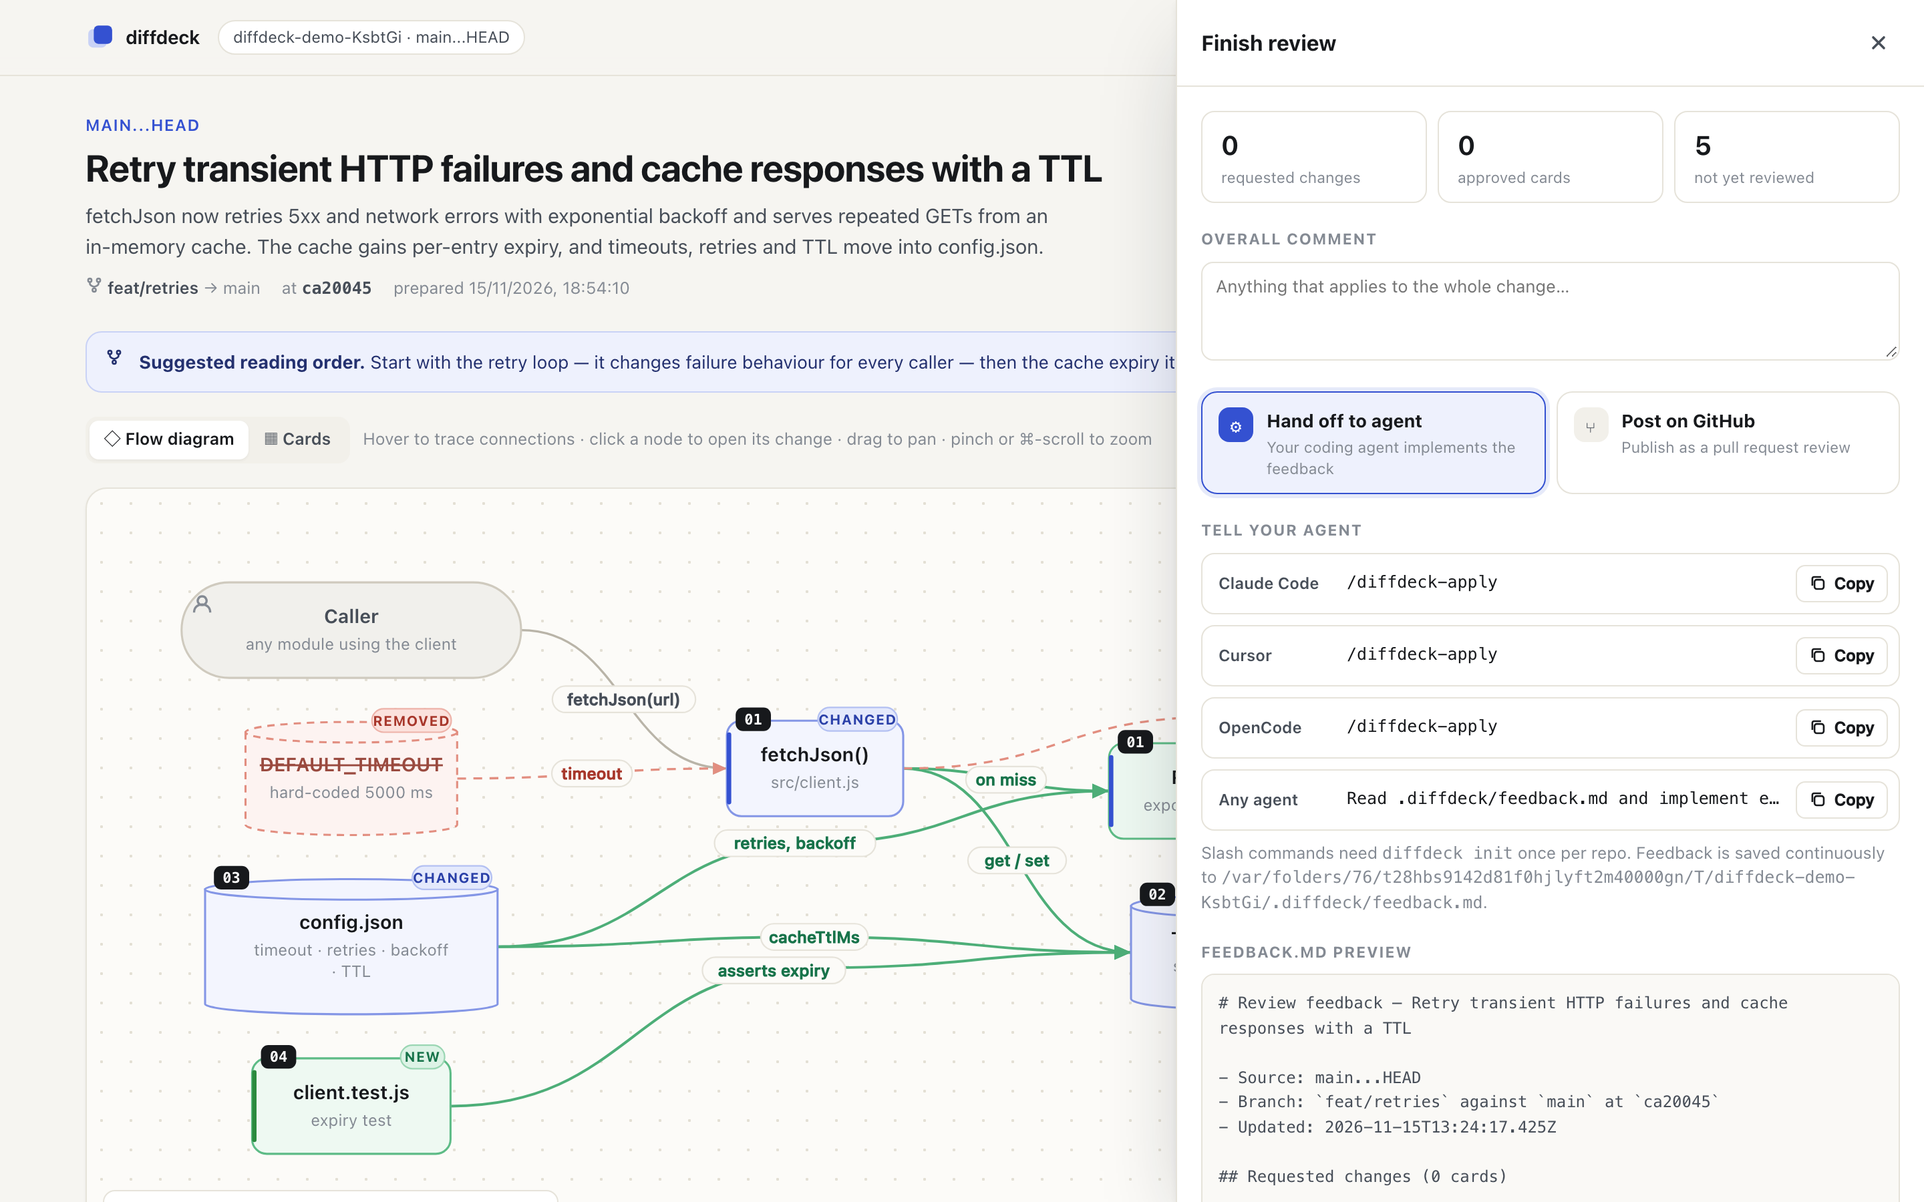
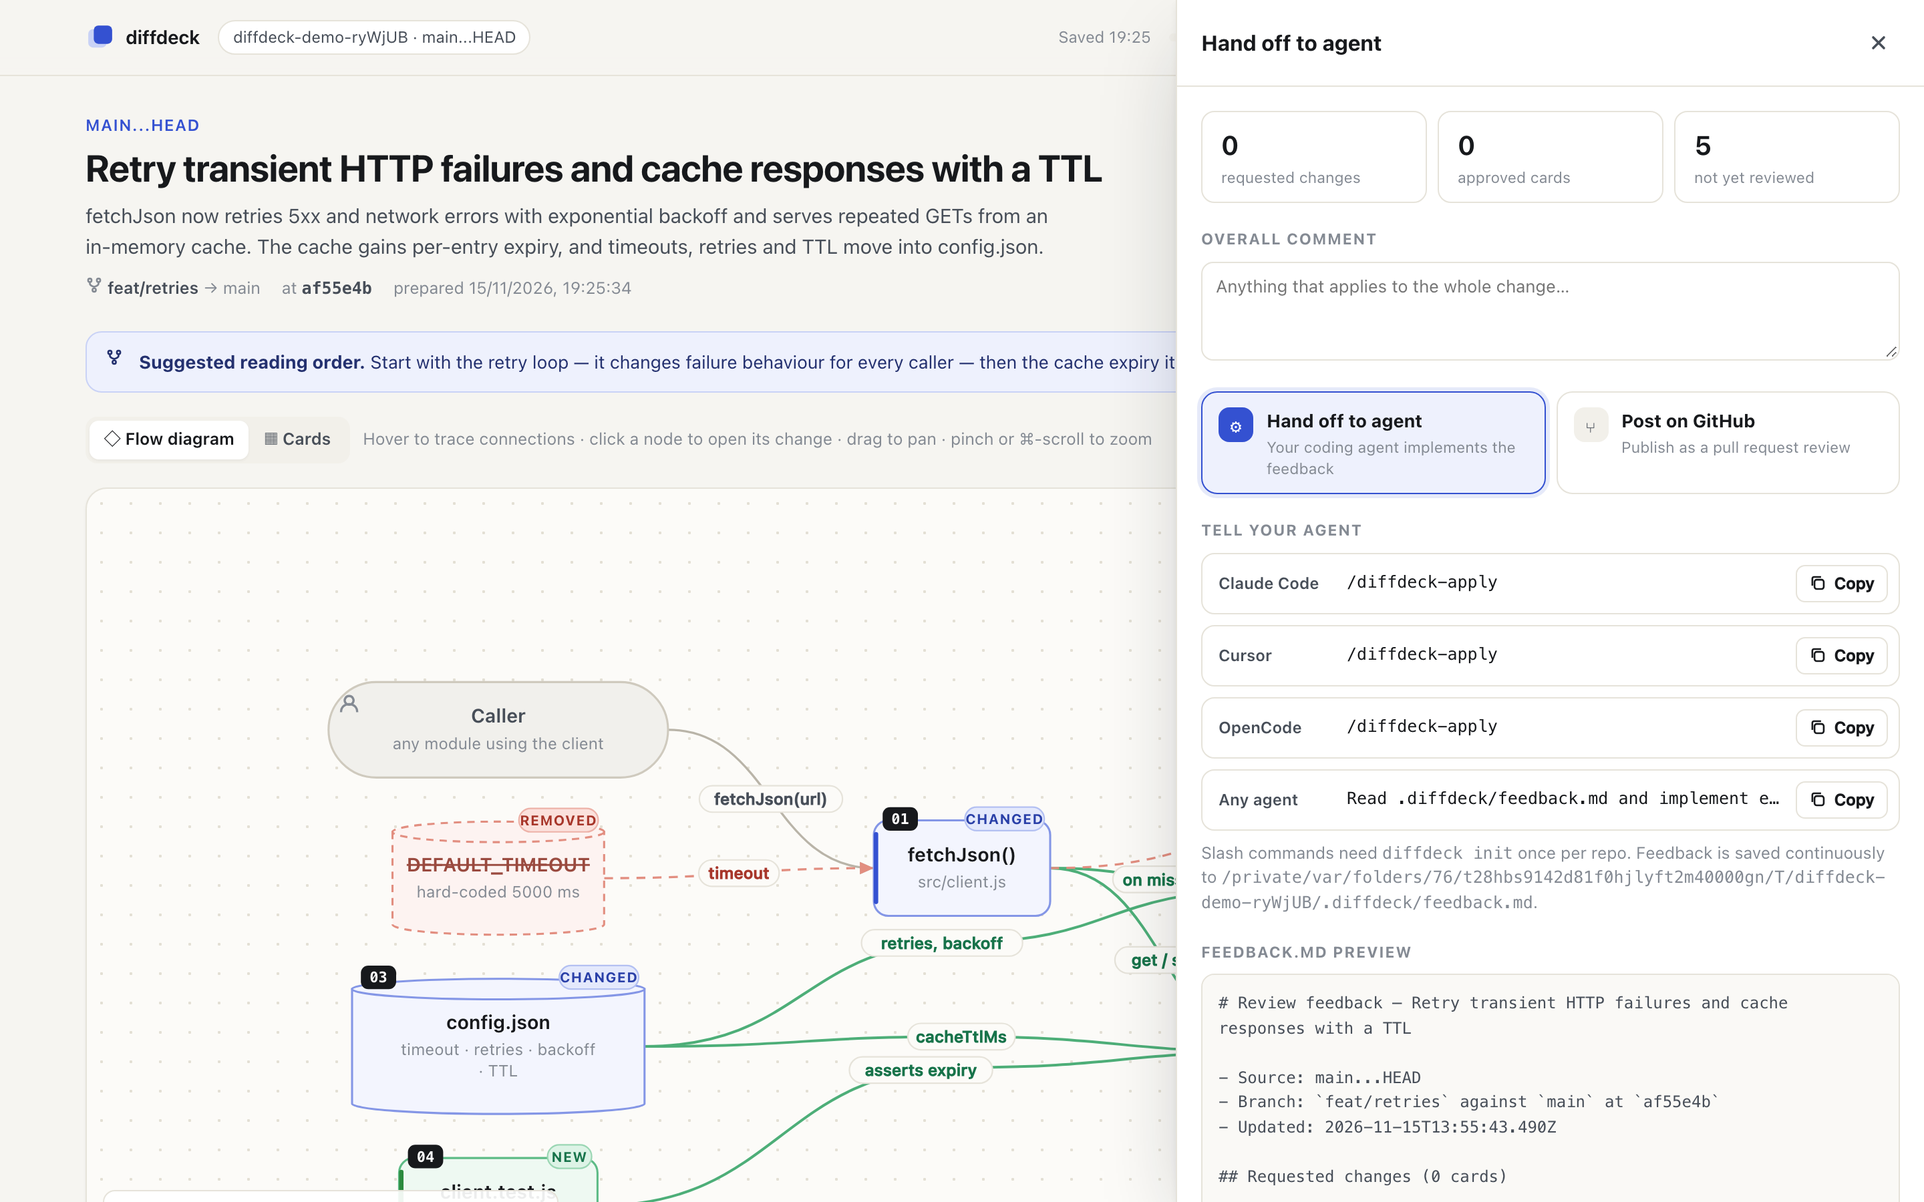
Two finish buttons, background server for agents, clearer README
- Top bar has separate "Hand off to agent" and "Post on GitHub" buttons;
  each opens its own panel
- `diffdeck serve --background` starts the review server and returns,
  reusing a server that is already running; `diffdeck stop` stops it
- The breakdown command now starts the server itself and opens the
  browser, and the agent's final message begins with the review link
- When a PR belongs to another repository, the agent uses the local clone
  of that repository
- README: step-by-step command guide at the top, including what each step
  does and prints; reference table updated; screenshots retaken

diff --git a/bin/diffdeck.js b/bin/diffdeck.js
@@ -28,7 +28,8 @@ ${c.b('Usage')}
   diffdeck init [agent]         Add /diffdeck-breakdown and /diffdeck-apply commands to this repo
                                 agent: ${AGENT_TARGETS.join(' | ')} | all (default)
   diffdeck prepare [same args]  Only collect the diff (what agents run)
-  diffdeck serve                Only open the UI for the prepared diff
+  diffdeck serve [--background] Open the UI for the prepared diff (--background: keep it running and return)
+  diffdeck stop                 Stop a background server
   diffdeck post [--event comment|request-changes|approve] [--yes]
                                 Preview your review for the PR; with --yes, post it to GitHub
   diffdeck login                Log in to GitHub (via the gh CLI)
@@ -97,8 +98,55 @@ function doPrepare(root, args) {
   return r;
 }
 
+// A server started by `diffdeck serve` records itself in .diffdeck/server.json
+// so later commands (and agents) reuse it instead of starting another one.
+function serverFile(dir) { return path.join(dir, 'server.json'); }
+
+async function runningServer(dir) {
+  let info;
+  try { info = JSON.parse(fs.readFileSync(serverFile(dir), 'utf8')); } catch { return null; }
+  try { process.kill(info.pid, 0); } catch { return null; }
+  try {
+    const res = await fetch(`${info.url}api/version`, { signal: AbortSignal.timeout(1500) });
+    return res.ok ? info : null;
+  } catch { return null; }
+}
+
+function printRunning(dir, url, background) {
+  const hasBreakdown = fs.existsSync(path.join(dir, 'breakdown.json'));
+  console.log(`${c.green('✓')} The review is open at ${c.b(c.blue(url))}`);
+  if (!hasBreakdown) console.log(`  ${c.yellow('No breakdown yet.')} In your agent run ${c.b('/diffdeck-breakdown <PR link>')}; the page updates by itself.`);
+  console.log(`  Feedback is saved to ${c.dim(path.join(dir, 'feedback.md'))}`);
+  console.log(c.dim(background ? '  The server runs in the background. Stop it with: diffdeck stop' : '  Press Ctrl+C to stop.'));
+}
+
 async function doServe(dir, args) {
   load(dir); // fail early with a helpful message if nothing is prepared
+  const existing = await runningServer(dir);
+  if (existing) {
+    console.log(c.dim('  (already running; the open page refreshes by itself)'));
+    printRunning(dir, existing.url, true);
+    if (!args['no-open']) openBrowser(existing.url);
+    return;
+  }
+
+  if (args.background) {
+    const child = spawn(process.execPath, [__filename, 'serve', '--no-open', ...(args.port ? ['--port', String(args.port)] : [])], {
+      cwd: path.dirname(dir), detached: true, stdio: 'ignore', windowsHide: true,
+    });
+    child.unref();
+    for (let i = 0; i < 50; i++) {
+      await new Promise((r) => setTimeout(r, 100));
+      const info = await runningServer(dir);
+      if (info && info.pid === child.pid) {
+        printRunning(dir, info.url, true);
+        if (!args['no-open']) openBrowser(info.url);
+        return;
+      }
+    }
+    throw new Error('The background server did not start. Run `diffdeck serve` to see the error.');
+  }
+
   let port = Number(args.port || process.env.DIFFDECK_PORT || 4777);
   let server;
   for (let attempt = 0; attempt < 20; attempt++) {
@@ -108,19 +156,27 @@ async function doServe(dir, args) {
     }
   }
   const url = `http://127.0.0.1:${port}/`;
-  const hasBreakdown = fs.existsSync(path.join(dir, 'breakdown.json'));
-  console.log(`${c.green('✓')} diffdeck is running at ${c.b(c.blue(url))}`);
-  if (!hasBreakdown) console.log(`  ${c.yellow('No breakdown yet.')} In your agent run ${c.b('/diffdeck-breakdown')} (or say "follow .diffdeck/AGENT_TASK.md"); the page updates by itself.`);
-  console.log(`  Feedback is saved to ${c.dim(path.join(dir, 'feedback.md'))}`);
-  console.log(c.dim('  Press Ctrl+C to stop.'));
+  fs.writeFileSync(serverFile(dir), JSON.stringify({ pid: process.pid, port, url, startedAt: new Date().toISOString() }, null, 2));
+  const cleanup = () => {
+    try { if (JSON.parse(fs.readFileSync(serverFile(dir), 'utf8')).pid === process.pid) fs.unlinkSync(serverFile(dir)); } catch { /* already gone */ }
+  };
+  printRunning(dir, url, false);
   if (!args['no-open']) openBrowser(url);
-  process.on('SIGINT', () => { server.close(); process.exit(0); });
+  for (const sig of ['SIGINT', 'SIGTERM', 'SIGHUP']) process.on(sig, () => { cleanup(); server.close(); process.exit(0); });
+  process.on('exit', cleanup);
+}
+
+async function doStop(dir) {
+  const info = await runningServer(dir);
+  if (!info) { try { fs.unlinkSync(serverFile(dir)); } catch { /* none */ } console.log('No diffdeck server is running for this repository.'); return; }
+  process.kill(info.pid, 'SIGTERM');
+  console.log(`${c.green('✓')} Stopped the diffdeck server at ${info.url}`);
 }
 
 async function main() {
   const argv = process.argv.slice(2);
   const first = argv[0];
-  const known = ['review', 'demo', 'init', 'agent-setup', 'prepare', 'serve', 'validate', 'feedback', 'post', 'login', 'help'];
+  const known = ['review', 'demo', 'init', 'agent-setup', 'prepare', 'serve', 'stop', 'validate', 'feedback', 'post', 'login', 'help'];
   const cmd = !first || first.startsWith('-') ? 'review' : first;
   const args = parseArgs(cmd === first ? argv.slice(1) : argv);
 
@@ -151,6 +207,9 @@ async function main() {
       return;
     case 'serve':
       await doServe(dir, args);
+      return;
+    case 'stop':
+      await doStop(dir);
       return;
     case 'validate': {
       const r = load(dir);

diff --git a/lib/agent.js b/lib/agent.js
@@ -87,7 +87,16 @@ caches and config (\`data\`), and unchanged libraries (\`external\`).
 Skip \`flow\` for docs, config-only and test-only cards.
 
 ## When done
-Tell the user: "Breakdown ready — run \`diffdeck serve\` (or refresh the open page) to review it."
+Then start the review for the user by running:
+
+    diffdeck serve --background
+
+It returns immediately, opens the browser, and prints the review's link (it reuses
+a server that is already running). Your final message must start with that link,
+for example: "The review is open at http://127.0.0.1:4777/ (running in the
+background; stop it with \`diffdeck stop\`)." Then, briefly, the most important
+findings. In the page, the reviewer can either hand the feedback back to you
+(**Hand off to agent**) or publish it on the PR (**Post on GitHub**).
 `;
 }
 
@@ -113,9 +122,9 @@ const COMMANDS = {
     body: `Pull request to review: $ARGUMENTS
 
 1. If no pull request link or number was given above, ask the user: "Which pull request should I break down? Paste its link (for example https://github.com/org/repo/pull/42)." Wait for the answer and do nothing else until you have it. If the user says there is no PR, ask which base branch to compare against and use that instead of \`--pr\` below.
-2. In the repository root, run \`diffdeck prepare --pr <link>\`. If it fails because \`gh\` is missing or not logged in, tell the user to run \`diffdeck login\` and stop.
+2. Run \`diffdeck prepare --pr <link>\` in the root of the PR's repository. If the PR belongs to a different repository than the current folder, use the user's local clone of that repository (look for it, or ask where it is); diffdeck warns when they differ. If it fails because \`gh\` is missing or not logged in, tell the user to run \`diffdeck login\` and stop.
 3. Read \`.diffdeck/AGENT_TASK.md\` and follow it exactly.
-4. When \`diffdeck validate\` passes, tell the user to run \`diffdeck\` to open the review.`,
+4. When \`diffdeck validate\` passes, run \`diffdeck serve --background\` (run it from the folder where you ran \`prepare\`). It starts the review server, opens the browser and prints the link. Begin your final message with: "The review is open at <link>", then summarise the key findings.`,
   },
   'diffdeck-apply': {
     description: 'Implement the feedback left in diffdeck',

diff --git a/ui/index.html b/ui/index.html
@@ -18,8 +18,13 @@
       <div class="topbar-spacer"></div>
       <span class="save-state" id="save-state" aria-live="polite"></span>
       <div class="progress" id="progress" title="Cards reviewed"></div>
-      <button class="btn btn-primary" id="handoff-btn" type="button">
-        Finish review <span class="count-badge" id="handoff-count" hidden></span>
+      <button class="btn" id="handoff-btn" type="button" data-act="finish" data-v="agent" title="Your coding agent implements the feedback">
+        <svg width="14" height="14" viewBox="0 0 16 16" fill="none" stroke="currentColor" stroke-width="1.6" aria-hidden="true"><rect x="2.5" y="4" width="11" height="8.5" rx="2.5"/><path d="M8 1.5V4M5.5 8h.01M10.5 8h.01"/></svg>
+        <span class="lbl">Hand off to agent</span> <span class="count-badge" id="handoff-count" hidden></span>
+      </button>
+      <button class="btn btn-primary" id="github-btn" type="button" data-act="finish" data-v="github" title="Publish your notes as a pull request review">
+        <svg width="14" height="14" viewBox="0 0 16 16" fill="currentColor" aria-hidden="true"><path d="M8 .5a7.5 7.5 0 0 0-2.37 14.62c.38.07.52-.16.52-.36v-1.3c-2.1.46-2.54-.9-2.54-.9-.34-.87-.84-1.1-.84-1.1-.68-.47.05-.46.05-.46.76.05 1.16.78 1.16.78.67 1.15 1.77.82 2.2.62.07-.48.26-.82.48-1-1.68-.19-3.44-.84-3.44-3.73 0-.82.3-1.5.78-2.03-.08-.19-.34-.96.07-2 0 0 .64-.2 2.08.78a7.2 7.2 0 0 1 3.78 0c1.44-.98 2.08-.78 2.08-.78.41 1.04.15 1.81.07 2 .49.53.78 1.2.78 2.03 0 2.9-1.77 3.54-3.45 3.73.27.23.51.69.51 1.39v2.06c0 .2.14.44.52.36A7.5 7.5 0 0 0 8 .5Z"/></svg>
+        <span class="lbl">Post on GitHub</span>
       </button>
     </div>
   </header>

diff --git a/ui/app.js b/ui/app.js
@@ -1042,7 +1042,7 @@ function renderDrawer() {
   const body = $('.drawer-body', drawer);
   const top = body ? body.scrollTop : 0;
   drawer.innerHTML = `
-    <div class="drawer-head"><h3>Finish review</h3><button class="btn btn-icon btn-ghost" data-act="close-drawer" aria-label="Close">${ICON.close}</button></div>
+    <div class="drawer-head"><h3>${GH.tab === 'github' ? 'Post on GitHub' : 'Hand off to agent'}</h3><button class="btn btn-icon btn-ghost" data-act="close-drawer" aria-label="Close">${ICON.close}</button></div>
     <div class="drawer-body">
       <div class="summary-tiles">
         <div class="stat"><div class="v" id="tile-actionable">${S.actionable}</div><div class="l">requested changes</div></div>
@@ -1109,7 +1109,8 @@ async function ghPost() {
   await ghCheck();
 }
 
-function openDrawer() {
+function openDrawer(tab) {
+  if (tab) GH.tab = tab;
   $('#drawer').hidden = false;
   renderDrawer();
   saveNow();
@@ -1204,6 +1205,7 @@ document.addEventListener('click', (e) => {
   const act = t.dataset.act;
   switch (act) {
     case 'open': openCard(t.dataset.id); break;
+    case 'finish': openDrawer(t.dataset.v); break;
     case 'gnode': {
       const name = t.closest('svg').dataset.svg;
       if (S.vps[name] && S.vps[name].moved) break;
@@ -1332,7 +1334,6 @@ document.addEventListener('keydown', (e) => {
   if (!S.openId && e.key === '/') { e.preventDefault(); const s = $('#search'); if (s) s.focus(); }
 });
 
-$('#handoff-btn').addEventListener('click', openDrawer);
 
 /* ---------------- boot + live reload ---------------- */
 

diff --git a/ui/app.css b/ui/app.css
@@ -586,6 +586,7 @@ tr.line.focus td { background-image: linear-gradient(rgba(52, 81, 209, .09), rgb
   .sheet-main, .diff-scroll { overflow: visible; }
   .search { width: 100%; margin-left: 0; }
   .progress-track, .save-state, .source-chip { display: none; }
+  #handoff-btn .lbl, #github-btn .lbl { display: none; }
   .topbar-inner, .page { padding-left: 16px; padding-right: 16px; }
   .grid { grid-template-columns: minmax(0, 1fr); }
   .canvas { height: 70vh; }
@@ -596,3 +597,4 @@ tr.line.focus td { background-image: linear-gradient(rgba(52, 81, 209, .09), rgb
 @media (prefers-reduced-motion: reduce) {
   *, *::before, *::after { animation: none !important; transition: none !important; }
 }
+#handoff-btn .count-badge { background: var(--accent); color: #fff; }

diff --git a/README.md b/README.md
@@ -20,66 +20,92 @@ Runs entirely on your machine · zero dependencies · Node 18+
 
 ---
 
-## Try it in 10 seconds
+## How to use it
 
-```sh
-npx github:AmeyaKasture/diffdeck demo
-```
+A review takes four commands. Steps 2 and 4 run in your coding agent; the rest run in a terminal.
 
-This builds a small sample repository with a ready-made breakdown and opens it in
-your browser. You need no agent and no setup.
-
-## Install
+### 1. Install (once per machine)
 
 ```sh
 npm install -g github:AmeyaKasture/diffdeck
+diffdeck --version     # prints 0.1.0
 ```
 
-<details>
-<summary>Other ways to install</summary>
+Requires Node 18+ and git. To review GitHub pull requests, you also need the
+[GitHub CLI](https://cli.github.com) (`brew install gh`, `winget install --id GitHub.cli`).
+If you are not logged in to it, `diffdeck login` takes care of that.
 
-```sh
-# From a clone, so your installed version follows git pull
-git clone https://github.com/AmeyaKasture/diffdeck.git
-cd diffdeck && npm link
+Want a look first? `npx github:AmeyaKasture/diffdeck demo` opens a finished sample review,
+with nothing to install and no agent needed.
 
-# Without installing: run any command through npx
-npx github:AmeyaKasture/diffdeck <command>
-```
-</details>
-
-## Quick start
+### 2. Set up a repository (once per repository)
 
 ```sh
 cd your-repo
-diffdeck init        # once per repo: adds /diffdeck-breakdown and /diffdeck-apply to your agents
+diffdeck init
 ```
 
-Then a review takes three steps:
+This adds two slash commands for Claude Code, Cursor and OpenCode:
 
-| | Where | What to type | What happens |
-|---|---|---|---|
-| **1** | your agent | `/diffdeck-breakdown <PR link>` | The agent reads the pull request and draws the diagrams, flowcharts and design alternatives |
-| **2** | terminal | `diffdeck` | The review of that PR opens in your browser. Explore it, comment, approve, and pick alternatives |
-| **3** | your agent | `/diffdeck-apply` | The agent implements your feedback |
-| *or 3* | browser | **Finish review**, then **Post on GitHub** | Your notes become a PR review with inline comments |
+| Command | What it does |
+|---|---|
+| `/diffdeck-breakdown <PR link>` | The agent analyses the pull request and opens the review |
+| `/diffdeck-apply` | The agent implements the feedback you leave in the review |
 
-For example:
+The command files go to `.claude/commands/`, `.cursor/commands/` and `.opencode/command/`.
+Commit them if your team should have the commands too. For other agents (Codex, Aider, …),
+`diffdeck init` prints a short snippet to paste into `AGENTS.md`.
+
+### 3. Break down a pull request (in your agent)
 
 ```
 /diffdeck-breakdown https://github.com/your-org/your-repo/pull/42
 ```
 
-If you run `/diffdeck-breakdown` without a link, the agent asks you for one before doing
-anything. If you have no pull request yet, tell it which base branch to compare against
-instead.
+The agent then:
 
-Once a PR has been prepared, plain `diffdeck` keeps reviewing that PR. Run
-`diffdeck review <other PR link>` to switch.
+1. fetches the PR's diff (`diffdeck prepare --pr <link>`)
+2. reads the diff and the surrounding code, and writes the breakdown: a system diagram,
+   change cards, logic flowcharts, and the design decisions with their alternatives
+3. checks its own work with `diffdeck validate`
+4. starts the review server in the background and opens your browser (`diffdeck serve --background`)
 
-> **Agent without slash commands?** For step 1, tell it *"Run `diffdeck prepare --pr <PR link>`,
-> then follow `.diffdeck/AGENT_TASK.md`"*. For step 3, tell it *"Implement `.diffdeck/feedback.md`"*.
-> All communication happens through plain files, so every agent can take part.
+It finishes with the link and its main findings:
+
+```
+The review is open at http://127.0.0.1:4777/ (running in the background; stop it with diffdeck stop).
+```
+
+If you leave out the link, the agent asks for it before doing anything. If the PR belongs to
+another repository, the agent runs from your local clone of that repository.
+
+### 4. Review in the browser, then choose one of two buttons
+
+Explore the diagram, open changes, read the flowcharts and code, leave notes on lines,
+prefer alternatives, and approve or request changes per card. Everything saves as you go.
+When you are done, use one of the two buttons at the top right:
+
+| Button | What happens |
+|---|---|
+| **Hand off to agent** | Your feedback is in `.diffdeck/feedback.md`. Run `/diffdeck-apply` in your agent, and it implements the requested changes while leaving approved cards untouched |
+| **Post on GitHub** | Your notes are published on the PR as a review: line notes become inline comments, and decisions and card notes form the summary. You preview it, choose *Comment*, *Request changes* or *Approve*, and confirm before anything is posted |
+
+### Everyday commands
+
+| Command | When to use it |
+|---|---|
+| `diffdeck` | Reopen the review. It reuses the running server, or starts one, and keeps reviewing the PR that was prepared |
+| `diffdeck review <PR link>` | Review a different PR yourself, without an agent. The diagram shows changed files until a breakdown exists |
+| `diffdeck review main` | Review your current branch against `main` instead of a PR |
+| `diffdeck stop` | Stop the background server |
+| `diffdeck post` / `diffdeck post --yes` | Preview, then publish, the GitHub review from the terminal |
+| `diffdeck login` | Log in to GitHub through `gh` |
+
+The [command reference](#command-reference) lists every command and option.
+
+> **Agent without slash commands?** For step 3, tell it: *"Run `diffdeck prepare --pr <PR link>`,
+> then follow `.diffdeck/AGENT_TASK.md`."* After the review, tell it: *"Implement `.diffdeck/feedback.md`."*
+> Everything passes through plain files, so any agent can take part.
 
 ## What you get
 
@@ -115,11 +141,12 @@ Click any line number to leave a note on that line.
 
 <img src="docs/code.png" alt="Code diff with the lines for the selected step highlighted" width="100%">
 
-### 4. Finish: hand off to an agent, or post on GitHub
+### 4. Two ways to finish: hand off to an agent, or post on GitHub
 
-**Finish review** offers two ways to act on what you decided.
+The top bar has two buttons, **Hand off to agent** and **Post on GitHub**. Each opens its
+own panel, and you can switch between them there.
 
-<img src="docs/handoff.png" alt="Finish review drawer with two options: hand off to agent, or post on GitHub" width="100%">
+<img src="docs/handoff.png" alt="Hand off to agent panel, with the Post on GitHub option beside it" width="100%">
 
 **Hand off to agent.** Everything you do is saved continuously to `.diffdeck/feedback.md`:
 approvals, requested changes, preferred alternatives (with their trade-offs written out),
@@ -169,7 +196,7 @@ Files: `src/client.js`
 ```
 </details>
 
-## Commands
+## Command reference
 
 | Command | What it does |
 |---|---|
@@ -182,7 +209,9 @@ Files: `src/client.js`
 | `diffdeck demo` | Opens the sample review |
 | `diffdeck init [claude\|cursor\|opencode\|all]` | Adds the `/diffdeck-breakdown` and `/diffdeck-apply` commands to the repo |
 | `diffdeck prepare [same options]` | Only collects the diff; this is what agents run |
-| `diffdeck serve` | Only opens the UI for the prepared diff |
+| `diffdeck serve` | Only opens the UI for the prepared diff, in the foreground (Ctrl+C stops it) |
+| `diffdeck serve --background` | Starts the UI server in the background and returns; reuses a server that is already running |
+| `diffdeck stop` | Stops the background server for this repository |
 | `diffdeck post` | Previews your review for the pull request; nothing is sent |
 | `diffdeck post --yes [--event comment\|request-changes\|approve]` | Posts the review on GitHub (`--force` re-posts an identical review) |
 | `diffdeck login` | Logs in to GitHub through `gh` (browser device flow) |
